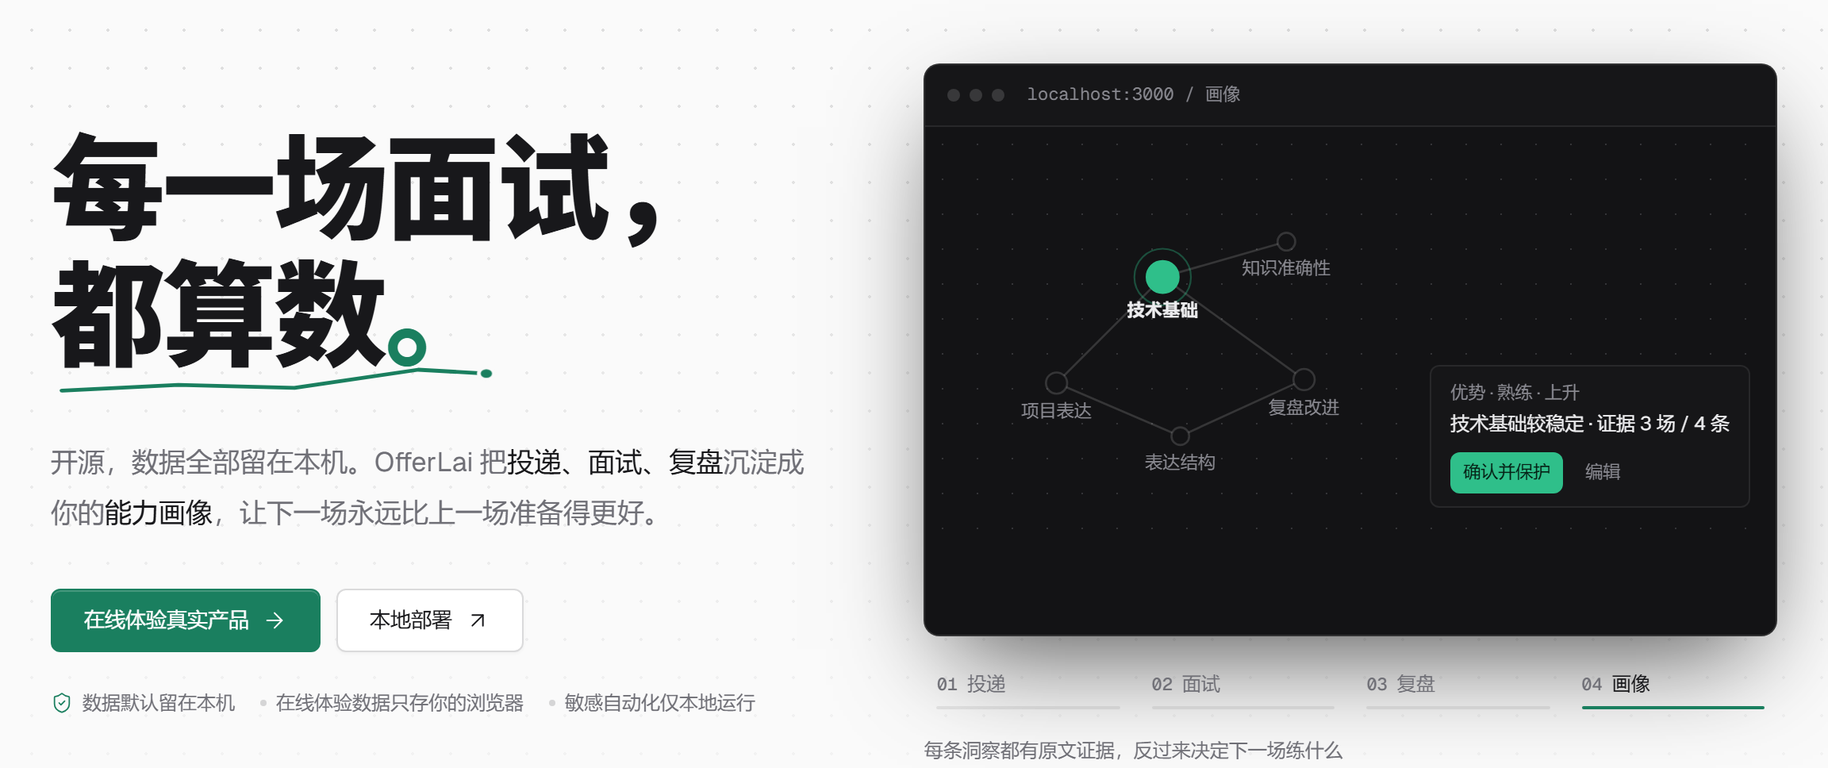
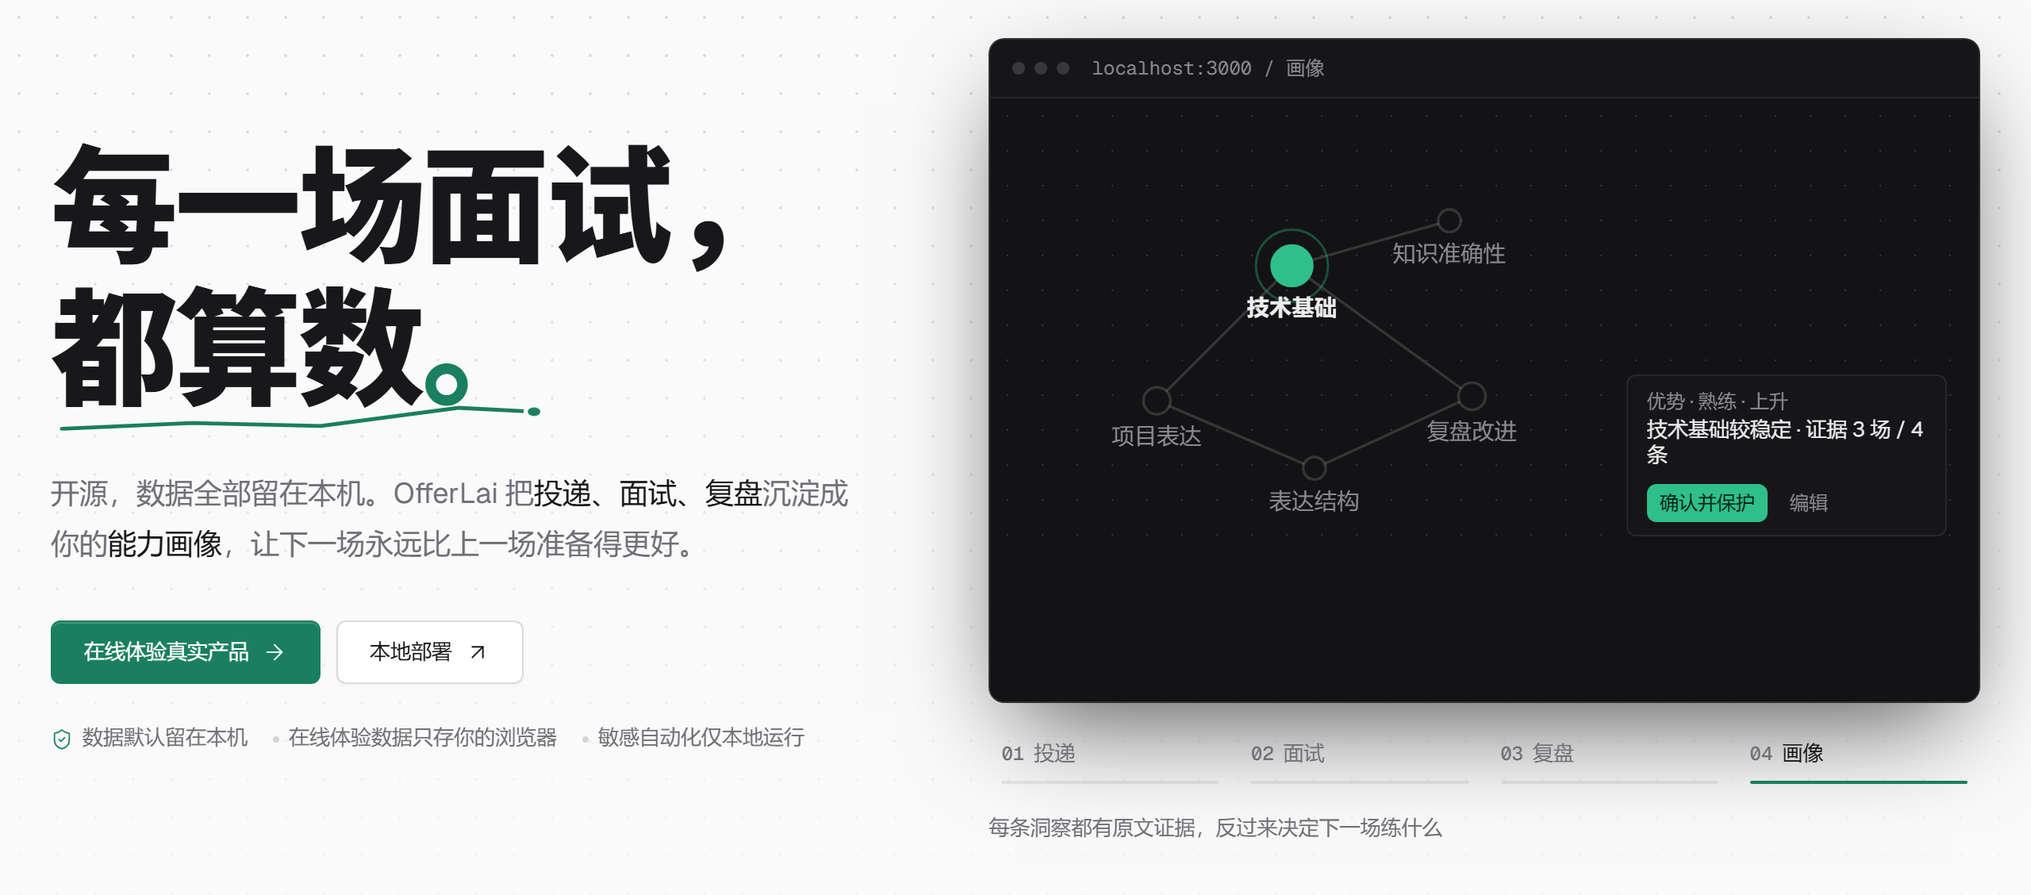
refactor(showcase): 收紧留白、放大内容尺寸
- 容器上限从 1152px 放到 1280px，各区块上下留白减一档
- 标题、正文、事实数字、功能行标题各放大一级；闭环演示窗框加高并放大内部字号
- 重拍两版 README 主视觉

diff --git a/src/app/showcase/loop-demo.tsx b/src/app/showcase/loop-demo.tsx
@@ -21,7 +21,7 @@ function StageBadge({ label, tone }: { label: string; tone: "neutral" | "brand" 
   return (
     <span
       className={cn(
-        "inline-flex h-5 items-center gap-1 rounded-control border border-border bg-surface px-1.5 text-[11px] text-foreground transition-colors duration-300",
+        "inline-flex h-5 items-center gap-1 rounded-control border border-border bg-surface px-1.5 text-xs text-foreground transition-colors duration-300",
         tone === "success" && "border-success/25 bg-success-soft text-success-strong",
       )}
     >
@@ -38,13 +38,13 @@ function StageBadge({ label, tone }: { label: string; tone: "neutral" | "brand" 
 
 function SceneApply({ copy, active }: { copy: ShowcaseCopy["demo"]; active: boolean }) {
   return (
-    <div className="relative p-4">
+    <div className="relative p-5">
       <div className="mb-3 flex items-center justify-between">
         <span className="h-6 w-28 rounded-control border border-border-strong bg-surface" />
-        <span className="font-mono text-[11px] text-muted-foreground">12 / 16</span>
+        <span className="font-mono text-xs text-muted-foreground">12 / 16</span>
       </div>
       <ul className="divide-y divide-border rounded-control border border-border">
-        <li className="flex items-center justify-between px-3 py-1.5 text-[11px] text-muted-foreground">
+        <li className="flex items-center justify-between px-3 py-1.5 text-xs text-muted-foreground">
           <span>{copy.tableHead[0]}</span>
           <span>{copy.tableHead[1]}</span>
         </li>
@@ -55,8 +55,8 @@ function SceneApply({ copy, active }: { copy: ShowcaseCopy["demo"]; active: bool
             style={{ animationDelay: `${200 + index * 140}ms` }}
           >
             <span className="min-w-0">
-              <span className="block text-[12px] font-medium text-foreground">{company}</span>
-              <span className="block truncate text-[11px] text-muted-foreground">{title}</span>
+              <span className="block text-[13px] font-medium text-foreground">{company}</span>
+              <span className="block truncate text-xs text-muted-foreground">{title}</span>
             </span>
             <StageBadge
               label={stage}
@@ -65,10 +65,10 @@ function SceneApply({ copy, active }: { copy: ShowcaseCopy["demo"]; active: bool
           </li>
         ))}
       </ul>
-      <p className="mt-2 font-mono text-[11px] text-muted-foreground">{copy.tableFooter}</p>
+      <p className="mt-2 font-mono text-xs text-muted-foreground">{copy.tableFooter}</p>
       <div
         className={cn(
-          "absolute right-4 top-3 inline-flex items-center gap-2 rounded-control border border-border bg-surface px-2.5 py-1.5 font-mono text-[11px] text-foreground shadow-raised sc-toast",
+          "absolute right-4 top-3 inline-flex items-center gap-2 rounded-control border border-border bg-surface px-2.5 py-1.5 font-mono text-xs text-foreground shadow-raised sc-toast",
           active && "sc-toast-in",
         )}
       >
@@ -81,9 +81,9 @@ function SceneApply({ copy, active }: { copy: ShowcaseCopy["demo"]; active: bool
 
 function SceneInterview({ copy, active }: { copy: ShowcaseCopy["demo"]; active: boolean }) {
   return (
-    <div className="p-4">
+    <div className="p-5">
       <div className="mb-3 flex items-center gap-2">
-        <span className="font-mono text-[11px] tabular-nums text-foreground">3 / 8</span>
+        <span className="font-mono text-xs tabular-nums text-foreground">3 / 8</span>
         <div className="grid flex-1 grid-cols-8 gap-1">
           {Array.from({ length: 8 }, (_, index) => (
             <span
@@ -97,12 +97,12 @@ function SceneInterview({ copy, active }: { copy: ShowcaseCopy["demo"]; active: 
         </div>
       </div>
       <div className="border-l-2 border-brand pl-3">
-        <p className={cn("text-[13px] font-medium leading-5 text-foreground sc-type", active && "sc-type-in")}>
+        <p className={cn("text-[15px] font-medium leading-5 text-foreground sc-type", active && "sc-type-in")}>
           {copy.question}
         </p>
         <p
           className={cn(
-            "mt-2 flex items-start gap-1 text-[11px] leading-4 text-muted-foreground sc-rise-soft",
+            "mt-2 flex items-start gap-1 text-xs leading-4 text-muted-foreground sc-rise-soft",
             active && "sc-rise-soft-in",
           )}
           style={{ animationDelay: "1600ms" }}
@@ -116,9 +116,9 @@ function SceneInterview({ copy, active }: { copy: ShowcaseCopy["demo"]; active: 
         style={{ animationDelay: "2400ms" }}
       >
         <div className="flex items-baseline justify-between">
-          <span className="text-[11px] text-muted-foreground">{copy.scoreLabel}</span>
+          <span className="text-xs text-muted-foreground">{copy.scoreLabel}</span>
           <span className="text-lg font-medium tabular-nums text-foreground">
-            84<span className="ml-0.5 text-[11px] font-normal text-muted-foreground">/ 100</span>
+            84<span className="ml-0.5 text-xs font-normal text-muted-foreground">/ 100</span>
           </span>
         </div>
         <div className="mt-2 h-1 overflow-hidden rounded-full bg-muted">
@@ -129,7 +129,7 @@ function SceneInterview({ copy, active }: { copy: ShowcaseCopy["demo"]; active: 
         </div>
       </div>
       <div
-        className={cn("mt-3 rounded-control border border-border-strong bg-surface-sunken px-3 py-2.5 text-[11px] leading-4 text-muted-foreground sc-rise-soft", active && "sc-rise-soft-in")}
+        className={cn("mt-3 rounded-control border border-border-strong bg-surface-sunken px-3 py-2.5 text-xs leading-4 text-muted-foreground sc-rise-soft", active && "sc-rise-soft-in")}
         style={{ animationDelay: "600ms" }}
       >
         {copy.answerPlaceholder}
@@ -139,10 +139,10 @@ function SceneInterview({ copy, active }: { copy: ShowcaseCopy["demo"]; active: 
         className={cn("mt-3 flex items-center gap-2 sc-rise-soft", active && "sc-rise-soft-in")}
         style={{ animationDelay: "800ms" }}
       >
-        <span className="rounded-control bg-brand px-2.5 py-1 text-[11px] font-medium text-brand-foreground">
+        <span className="rounded-control bg-brand px-2.5 py-1 text-xs font-medium text-brand-foreground">
           {copy.answerActions[0]}
         </span>
-        <span className="rounded-control px-2 py-1 text-[11px] text-muted-foreground">{copy.answerActions[1]}</span>
+        <span className="rounded-control px-2 py-1 text-xs text-muted-foreground">{copy.answerActions[1]}</span>
       </div>
     </div>
   );
@@ -151,12 +151,12 @@ function SceneInterview({ copy, active }: { copy: ShowcaseCopy["demo"]; active: 
 function SceneReview({ copy, active }: { copy: ShowcaseCopy["demo"]; active: boolean }) {
   const total = copy.reviewRows.reduce((sum, [, count]) => sum + count, 0);
   return (
-    <div className="p-4">
+    <div className="p-5">
       <div className="mb-3 inline-flex items-center gap-0.5 rounded-control bg-surface-sunken p-0.5">
         {copy.reviewSources.map((source, index) => (
           <span
             className={cn(
-              "rounded-[4px] px-2 py-1 text-[11px]",
+              "rounded-[4px] px-2 py-1 text-xs",
               index === 0 ? "bg-surface font-medium text-foreground shadow-card" : "text-muted-foreground",
             )}
             key={source}
@@ -167,14 +167,14 @@ function SceneReview({ copy, active }: { copy: ShowcaseCopy["demo"]; active: boo
       </div>
       <div className="grid gap-3 sm:grid-cols-[auto_1fr]">
       <div className="pr-4 sm:border-r sm:border-border">
-        <p className="text-[11px] text-muted-foreground">{copy.reviewTotal}</p>
-        <p className="mt-1 text-4xl font-medium tabular-nums leading-none text-foreground">
+        <p className="text-xs text-muted-foreground">{copy.reviewTotal}</p>
+        <p className="mt-1 text-5xl font-medium tabular-nums leading-none text-foreground">
           <CountUp active={active} value={total} />
         </p>
         <dl className="mt-4 grid gap-1.5">
           {copy.reviewGroups.map(([group, count], index) => (
             <div
-              className={cn("flex items-center justify-between gap-4 text-[11px] sc-row", active && "sc-row-in")}
+              className={cn("flex items-center justify-between gap-4 text-xs sc-row", active && "sc-row-in")}
               key={group}
               style={{ animationDelay: `${900 + index * 120}ms` }}
             >
@@ -194,8 +194,8 @@ function SceneReview({ copy, active }: { copy: ShowcaseCopy["demo"]; active: boo
             key={question}
             style={{ animationDelay: `${300 + index * 160}ms` }}
           >
-            <span className="truncate text-[12px] text-foreground">{question}</span>
-            <span className="shrink-0 font-mono text-[11px] tabular-nums text-muted-foreground">× {count}</span>
+            <span className="truncate text-[13px] text-foreground">{question}</span>
+            <span className="shrink-0 font-mono text-xs tabular-nums text-muted-foreground">× {count}</span>
           </li>
         ))}
       </ul>
@@ -222,8 +222,8 @@ const graphEdges = [
 
 function SceneProfile({ copy, active }: { copy: ShowcaseCopy["demo"]; active: boolean }) {
   return (
-    <div className="dot-grid grid gap-3 p-4 sm:grid-cols-[1fr_auto] sm:items-end">
-      <svg aria-hidden="true" className="h-56 w-full" viewBox="0 0 260 180">
+    <div className="dot-grid grid gap-3 p-5 sm:grid-cols-[1fr_auto] sm:items-end">
+      <svg aria-hidden="true" className="h-64 w-full" viewBox="0 0 260 180">
         {graphEdges.map(([from, to], index) => (
           <line
             className={cn("sc-edge", active && "sc-edge-in")}
@@ -272,13 +272,13 @@ function SceneProfile({ copy, active }: { copy: ShowcaseCopy["demo"]; active: bo
         className={cn("rounded-control border border-border bg-surface-subtle px-3 py-2 sc-rise-soft", active && "sc-rise-soft-in")}
         style={{ animationDelay: "1300ms" }}
       >
-        <p className="text-[11px] text-muted-foreground">{copy.insightKind}</p>
-        <p className="mt-0.5 max-w-44 text-[12px] leading-4 text-foreground">{copy.insight}</p>
+        <p className="text-xs text-muted-foreground">{copy.insightKind}</p>
+        <p className="mt-0.5 max-w-44 text-[13px] leading-4 text-foreground">{copy.insight}</p>
         <div className="mt-2.5 flex gap-1.5">
-          <span className="rounded-control bg-brand px-2 py-1 text-[11px] font-medium text-brand-foreground">
+          <span className="rounded-control bg-brand px-2 py-1 text-xs font-medium text-brand-foreground">
             {copy.insightActions[0]}
           </span>
-          <span className="rounded-control px-2 py-1 text-[11px] text-muted-foreground">{copy.insightActions[1]}</span>
+          <span className="rounded-control px-2 py-1 text-xs text-muted-foreground">{copy.insightActions[1]}</span>
         </div>
       </div>
     </div>
@@ -352,11 +352,11 @@ export function LoopDemo({ copy, scenes, label }: DemoProps) {
           <span className="size-2 rounded-full bg-border-strong" />
           <span className="size-2 rounded-full bg-border-strong" />
           <span className="size-2 rounded-full bg-border-strong" />
-          <span className="ml-2 font-mono text-[11px] text-muted-foreground">
+          <span className="ml-2 font-mono text-xs text-muted-foreground">
             {copy.address} / {scenes[scene].label}
           </span>
         </div>
-        <div className="relative min-h-[320px] bg-surface" aria-live="polite">
+        <div className="relative min-h-[380px] bg-surface" aria-live="polite">
           {panels.map((Panel, index) => {
             const active = index === scene;
             return (
@@ -383,7 +383,7 @@ export function LoopDemo({ copy, scenes, label }: DemoProps) {
               <button
                 aria-selected={active}
                 className={cn(
-                  "group relative flex-1 rounded-control px-2 py-1.5 text-left text-xs transition-colors duration-150",
+                  "group relative flex-1 rounded-control px-2 py-1.5 text-left text-[13px] transition-colors duration-150 focus:outline-none focus-visible:outline-2 focus-visible:outline-offset-2 focus-visible:outline-ring",
                   active ? "text-foreground" : "text-muted-foreground hover:text-foreground",
                 )}
                 key={item.label}
@@ -392,7 +392,7 @@ export function LoopDemo({ copy, scenes, label }: DemoProps) {
                 type="button"
               >
                 <span className="block font-medium">
-                  <span className="mr-1.5 font-mono text-[11px] text-muted-foreground">0{index + 1}</span>
+                  <span className="mr-1.5 font-mono text-xs text-muted-foreground">0{index + 1}</span>
                   {item.label}
                 </span>
                 <span className="mt-1.5 block h-0.5 overflow-hidden rounded-full bg-border">
@@ -409,7 +409,7 @@ export function LoopDemo({ copy, scenes, label }: DemoProps) {
             );
           })}
         </div>
-        <p className="mt-3 min-h-5 text-xs text-muted-foreground">{scenes[scene].caption}</p>
+        <p className="mt-3 min-h-5 text-[13px] text-muted-foreground">{scenes[scene].caption}</p>
       </div>
     </div>
   );

diff --git a/src/app/showcase/showcase-content.tsx b/src/app/showcase/showcase-content.tsx
@@ -19,11 +19,11 @@ function Fact({ value, suffix, label }: ShowcaseCopy["facts"][number]) {
   const display = useCountUp(revealed ? value : 0, 900);
   return (
     <div className="px-6 first:pl-0 last:pr-0" ref={ref}>
-      <p className="text-4xl font-medium tracking-tight tabular-nums text-foreground sm:text-5xl">
+      <p className="text-5xl font-medium tracking-tight tabular-nums text-foreground sm:text-6xl">
         {display}
         <span className="ml-1 text-base font-normal text-muted-foreground">{suffix}</span>
       </p>
-      <p className="mt-2 text-[13px] text-muted-foreground">{label}</p>
+      <p className="mt-2 text-sm text-muted-foreground">{label}</p>
     </div>
   );
 }
@@ -41,10 +41,10 @@ function SectionHeading({
     <div className="grid gap-6 border-b border-border pb-10 lg:grid-cols-[minmax(0,0.8fr)_minmax(0,1.2fr)] lg:items-end">
       <div>
         <p className="font-mono text-xs text-muted-foreground">{eyebrow}</p>
-        <h2 className="mt-3 text-[28px] font-semibold leading-tight tracking-tight sm:text-4xl">{title}</h2>
+        <h2 className="mt-3 text-3xl font-semibold leading-tight tracking-tight sm:text-[40px]">{title}</h2>
       </div>
       {description ? (
-        <p className="max-w-xl text-[15px] leading-7 text-muted-foreground lg:justify-self-end">{description}</p>
+        <p className="max-w-xl text-base leading-7 text-muted-foreground lg:justify-self-end">{description}</p>
       ) : null}
     </div>
   );
@@ -110,7 +110,7 @@ export function ShowcaseContent({ displayFontVariable }: { displayFontVariable: 
       <div aria-hidden="true" className="sc-dots pointer-events-none absolute inset-x-0 top-0 h-[760px]" />
 
       <header className="sticky top-0 z-40 border-b border-border bg-background/85 backdrop-blur">
-        <div className="mx-auto flex h-14 max-w-6xl items-center justify-between px-5 sm:px-8">
+        <div className="mx-auto flex h-14 max-w-7xl items-center justify-between px-5 sm:px-8">
           <Link className="flex items-center gap-1.5 text-sm font-semibold tracking-tight" href="/showcase">
             OfferLai
             <span aria-hidden="true" className="size-1.5 rounded-full bg-brand" />
@@ -156,12 +156,12 @@ export function ShowcaseContent({ displayFontVariable }: { displayFontVariable: 
 
       {/* ============ Hero ============ */}
       <section
-        className="relative mx-auto grid max-w-6xl gap-14 px-5 pb-20 pt-16 sm:px-8 lg:grid-cols-[minmax(0,0.95fr)_minmax(0,1.05fr)] lg:items-center lg:gap-16 lg:pb-24 lg:pt-24"
+        className="relative mx-auto grid max-w-7xl gap-12 px-5 pb-16 pt-12 sm:px-8 lg:grid-cols-[minmax(0,0.9fr)_minmax(0,1.1fr)] lg:items-center lg:gap-20 lg:pb-20 lg:pt-16"
         data-shot="hero"
       >
         <div>
           <h1
-            className="text-[52px] font-black leading-[1.12] tracking-tight sm:text-[64px] xl:text-[72px]"
+            className="text-[52px] font-black leading-[1.12] tracking-tight sm:text-[68px] xl:text-[80px]"
             style={{ fontFamily: "var(--font-sc-display), var(--font-sans, inherit)" }}
           >
             <span className="sc-rise block">{content.heroTitle[0]}</span>
@@ -188,7 +188,7 @@ export function ShowcaseContent({ displayFontVariable }: { displayFontVariable: 
             </span>
           </h1>
 
-          <p className="sc-rise mt-10 max-w-lg text-[17px] leading-8 text-muted-foreground [animation-delay:220ms] [&_b]:font-medium [&_b]:text-foreground">
+          <p className="sc-rise mt-9 max-w-xl text-lg leading-8 text-muted-foreground [animation-delay:220ms] [&_b]:font-medium [&_b]:text-foreground">
             {content.heroDescription}
           </p>
 
@@ -203,7 +203,7 @@ export function ShowcaseContent({ displayFontVariable }: { displayFontVariable: 
             </Link>
           </div>
 
-          <ul className="sc-rise mt-6 flex flex-wrap gap-x-4 gap-y-1.5 text-xs text-muted-foreground [animation-delay:440ms]">
+          <ul className="sc-rise mt-6 flex flex-wrap gap-x-4 gap-y-1.5 text-[13px] text-muted-foreground [animation-delay:440ms]">
             {content.trustPoints.map((point, index) => (
               <li className="inline-flex items-center gap-1.5" key={point}>
                 {index === 0 ? (
@@ -221,7 +221,7 @@ export function ShowcaseContent({ displayFontVariable }: { displayFontVariable: 
       </section>
 
       {/* ============ 三个事实 ============ */}
-      <section className="relative mx-auto max-w-6xl px-5 pb-24 sm:px-8 lg:pb-32">
+      <section className="relative mx-auto max-w-7xl px-5 pb-20 sm:px-8 lg:pb-24">
         <Reveal>
           <div className="flex flex-col divide-y divide-border border-y border-border py-8 sm:flex-row sm:divide-x sm:divide-y-0">
             {content.facts.map((fact) => (
@@ -232,7 +232,7 @@ export function ShowcaseContent({ displayFontVariable }: { displayFontVariable: 
       </section>
 
       {/* ============ 功能：一个闭环，五个环节 ============ */}
-      <section className="relative mx-auto max-w-6xl px-5 pb-24 sm:px-8 lg:pb-32">
+      <section className="relative mx-auto max-w-7xl px-5 pb-20 sm:px-8 lg:pb-24">
         <Reveal>
           <SectionHeading
             description={content.highlightsDescription}
@@ -246,7 +246,7 @@ export function ShowcaseContent({ displayFontVariable }: { displayFontVariable: 
             }
           />
         </Reveal>
-        <div className="mt-12">
+        <div className="mt-14">
           <FeatureRows copy={content} />
         </div>
       </section>
@@ -254,11 +254,11 @@ export function ShowcaseContent({ displayFontVariable }: { displayFontVariable: 
       {/* ============ 闭环（暗色带） ============ */}
       <section className="relative border-y border-border bg-[#0c0c0d] text-[#ededef]">
         <div className="sc-dots-dark pointer-events-none absolute inset-0" aria-hidden="true" />
-        <div className="relative mx-auto grid max-w-6xl gap-12 px-5 py-20 sm:px-8 lg:grid-cols-2 lg:items-center lg:py-28">
+        <div className="relative mx-auto grid max-w-7xl gap-12 px-5 py-16 sm:px-8 lg:grid-cols-2 lg:items-center lg:py-24">
           <Reveal>
             <p className="font-mono text-xs text-[#8a8a91]">{content.loopEyebrow}</p>
-            <h2 className="mt-3 text-[28px] font-semibold leading-tight tracking-tight sm:text-4xl">{content.loopTitle}</h2>
-            <p className="mt-5 max-w-lg text-[15px] leading-7 text-[#8a8a91]">{content.loopDescription}</p>
+            <h2 className="mt-3 text-3xl font-semibold leading-tight tracking-tight sm:text-[40px]">{content.loopTitle}</h2>
+            <p className="mt-5 max-w-lg text-base leading-7 text-[#8a8a91]">{content.loopDescription}</p>
             <Link
               className={buttonClassName({ className: "mt-8 h-10 px-5 text-sm" })}
               href="/interviews/mock"
@@ -274,7 +274,7 @@ export function ShowcaseContent({ displayFontVariable }: { displayFontVariable: 
       </section>
 
       {/* ============ 边界 ============ */}
-      <section className="relative mx-auto max-w-6xl px-5 py-24 sm:px-8 lg:py-32">
+      <section className="relative mx-auto max-w-7xl px-5 py-20 sm:px-8 lg:py-24">
         <Reveal>
           <p className="font-mono text-xs text-muted-foreground">{content.privacyEyebrow}</p>
           <div className="mt-4 grid gap-10 border-t border-border pt-8 md:grid-cols-2">
@@ -285,7 +285,7 @@ export function ShowcaseContent({ displayFontVariable }: { displayFontVariable: 
                   <Icon aria-hidden="true" className="mt-1 size-4 shrink-0 text-muted-foreground" strokeWidth={1.5} />
                   <div>
                     <h2 className="text-base font-semibold tracking-tight">{item.title}</h2>
-                    <p className="mt-2 max-w-md text-[15px] leading-7 text-muted-foreground">{item.description}</p>
+                    <p className="mt-2 max-w-md text-base leading-7 text-muted-foreground">{item.description}</p>
                   </div>
                 </div>
               );
@@ -295,7 +295,7 @@ export function ShowcaseContent({ displayFontVariable }: { displayFontVariable: 
       </section>
 
       {/* ============ CTA ============ */}
-      <section className="relative mx-auto max-w-6xl px-5 pb-24 sm:px-8">
+      <section className="relative mx-auto max-w-7xl px-5 pb-20 sm:px-8">
         <Reveal>
           <div className="dot-grid flex flex-col gap-8 rounded-panel border border-border bg-surface p-8 sm:p-12 lg:flex-row lg:items-end lg:justify-between">
             <div>
@@ -320,7 +320,7 @@ export function ShowcaseContent({ displayFontVariable }: { displayFontVariable: 
       </section>
 
       <footer className="relative border-t border-border">
-        <div className="mx-auto flex max-w-6xl flex-col gap-2 px-5 py-6 font-mono text-xs text-muted-foreground sm:flex-row sm:items-center sm:justify-between sm:px-8">
+        <div className="mx-auto flex max-w-7xl flex-col gap-2 px-5 py-6 font-mono text-xs text-muted-foreground sm:flex-row sm:items-center sm:justify-between sm:px-8">
           <span>OfferLai · {content.footerNote}</span>
           <Link className="hover:text-foreground" href="https://github.com/yuecao365/OfferLai">
             github.com/yuecao365/OfferLai

diff --git a/src/app/showcase/feature-rows.tsx b/src/app/showcase/feature-rows.tsx
@@ -118,8 +118,8 @@ function FeatureRow({ copy, index }: { copy: ShowcaseCopy; index: number }) {
     >
       <div className={cn("border-l-2 border-brand pl-6", reversed && "lg:order-2")}>
         <span className="font-mono text-xs text-muted-foreground">0{index + 1}</span>
-        <h3 className="mt-3 text-xl font-semibold tracking-tight sm:text-2xl">{feature.title}</h3>
-        <p className="mt-3 max-w-md text-[15px] leading-7 text-muted-foreground">{feature.description}</p>
+        <h3 className="mt-3 text-2xl font-semibold tracking-tight sm:text-[28px]">{feature.title}</h3>
+        <p className="mt-4 max-w-lg text-base leading-7 text-muted-foreground">{feature.description}</p>
       </div>
       <div className={cn(reversed && "lg:order-1")}>
         <FeatureVisual active={revealed} copy={copy} index={index} />
@@ -134,7 +134,7 @@ function FeatureRow({ copy, index }: { copy: ShowcaseCopy; index: number }) {
  */
 export function FeatureRows({ copy }: { copy: ShowcaseCopy }) {
   return (
-    <ol className="grid gap-20 lg:gap-28">
+    <ol className="grid gap-16 lg:gap-20">
       {copy.features.map((feature, index) => (
         <FeatureRow copy={copy} index={index} key={feature.title} />
       ))}
